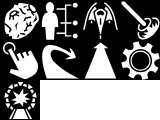
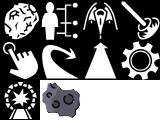
starting on better asteroid rendering

Changed region(s): [[0.25, 0.675, 0.5, 1.0]]

diff --git a/game.html b/game.html
@@ -41,10 +41,10 @@ const Constants = {
         ORBIT: 5,
         APPROACH: 6,
         SETTINGS: 7,
-        WARP: 8
+        WARP: 8,
+        ASTEROID: 9
     }
 };
-
 
 function Node() {
     // FIELDS 
@@ -70,7 +70,6 @@ function Player() {
 
     this.name = 'Bob';
     this.credits = 0;
-    this.ore = 0;
 }
 
 function AsteroidField() {
@@ -119,7 +118,8 @@ function Asteroid() {
     // PUBLIC METHODS
 
     // introduce weights so some are rarer than others
-    const TYPES = [ 'Iron', 'Ice', 'Silicon', 'Gold'];
+    const TYPES = [ 'Iron', 'Ice', 'Silicon', 'Gold', 'Platinum', 'Titanium', 
+                    'Uranium', 'Cobalt', 'Mithril', 'Adamantium'];
 
     this.mine = () => {
         if (Math.random() < 0.5) { // 1 ore
@@ -141,24 +141,30 @@ function Asteroid() {
 
 
     this.draw = () => {
-        ctx.save();
-        ctx.setLineDash([]);
-        ctx.lineWidth = 1;
-        ctx.fillStyle = 'rgba(55, 55, 55, 1)';
-        ctx.strokeStyle = 'rgba(85, 85, 85, 1)';
-        ctx.beginPath();
-        ctx.arc(this.pos.x, this.pos.y, this.size, 0, Math.PI * 2);
-        ctx.fill();
-        ctx.stroke();
-        ctx.restore();
-
-        // DEBUGGING! draw the index of the asteroid in the asteroid field
-        ctx.save();
-        ctx.fillStyle = 'white';
-        ctx.font = '22px Arial';
+        const ui = node.children.find(c => c instanceof UI);
         const asteroids = node.children.find(c => c instanceof AsteroidField).asteroids;
-        ctx.fillText(asteroids.indexOf(this), this.pos.x, this.pos.y);
-        ctx.restore();
+        const center = { x: this.pos.x - this.size/2, y: this.pos.y - this.size/2 };
+        ui.drawIcon(Constants.SPRITE.ASTEROID, center, false, asteroids.indexOf(this), false, 2);
+
+
+        // ctx.save();
+        // ctx.setLineDash([]);
+        // ctx.lineWidth = 1;
+        // ctx.fillStyle = 'rgba(55, 55, 55, 1)';
+        // ctx.strokeStyle = 'rgba(85, 85, 85, 1)';
+        // ctx.beginPath();
+        // ctx.arc(this.pos.x, this.pos.y, this.size, 0, Math.PI * 2);
+        // ctx.fill();
+        // ctx.stroke();
+        // ctx.restore();
+
+        // // DEBUGGING! draw the index of the asteroid in the asteroid field
+        // ctx.save();
+        // ctx.fillStyle = 'white';
+        // ctx.font = '22px Arial';
+        // const asteroids = node.children.find(c => c instanceof AsteroidField).asteroids;
+        // ctx.fillText(asteroids.indexOf(this), this.pos.x, this.pos.y);
+        // ctx.restore();
 
         if (this.selected) {
             // draw selection border
@@ -397,14 +403,36 @@ function UI() {
         }
         drawFps();
         drawButtons();
-    }
+    };
+
+    this.drawIcon = (spriteIndex, pos, selected = false, button = undefined, outline = true, scale = 1) => {
+        if (!sprites[spriteIndex]) return;
+        if (selected) ctx.globalAlpha = 0.5;
+        ctx.drawImage(sprites[spriteIndex], pos.x, pos.y, 40*scale, 40*scale);
+        if (outline) {
+            ctx.strokeStyle = 'rgba(150, 150, 150, 0.5)';
+            ctx.strokeRect(pos.x, pos.y, 40, 40);
+        }
+        if (button) {
+            ctx.font = '11px Arial';
+            ctx.fillStyle = 'black';
+            ctx.fillText(button, pos.x+1, pos.y+5);
+            ctx.fillText(button, pos.x-1, pos.y+4);
+            ctx.fillStyle = 'white';
+            ctx.fillText(button, pos.x, pos.y+4);
+        }
+        ctx.globalAlpha = 1;
+    };
 
     // PRIVATE METHODS
     const sprites = [];
-    // Load the sprite sheet
+
     const spriteSheet = new Image();
+    // icons from:
+    // https://game-icons.net/
+    // https://icons8.com
     spriteSheet.src = 'icons.png';
-    // Once the image loads, split it into sprites
+
     spriteSheet.onload = () => {
         const spriteWidth = 40;
         const spriteHeight = 40;
@@ -416,12 +444,12 @@ function UI() {
         const tempCtx = tempCanvas.getContext('2d');
         tempCanvas.width = spriteWidth;
         tempCanvas.height = spriteHeight;
-        
+
         // Extract each sprite
         for (let row = 0; row < rows; row++) {
             for (let col = 0; col < columns; col++) {
                 tempCtx.clearRect(0, 0, spriteWidth, spriteHeight);
-                
+
                 // Draw the portion of the sprite sheet we want
                 tempCtx.drawImage(
                     spriteSheet,
@@ -467,23 +495,6 @@ function UI() {
         });
     };
 
-    const drawIcon = (spriteIndex, pos, selected = false, button = undefined) => {
-        if (!sprites[spriteIndex]) return;
-        if (selected) ctx.globalAlpha = 0.5;
-        ctx.drawImage(sprites[spriteIndex], pos.x, pos.y);
-        ctx.strokeStyle = 'rgba(150, 150, 150, 0.5)';
-        ctx.strokeRect(pos.x, pos.y, 40, 40);
-        if (button) {
-            ctx.font = '11px Arial';
-            ctx.fillStyle = 'black';
-            ctx.fillText(button, pos.x+5, pos.y+4);
-            ctx.fillStyle = 'white';
-            ctx.fillText(button, pos.x+2, pos.y+1);
-        }
-        ctx.globalAlpha = 1;
-    };
-
-    // TODO: fix the FPS counter...
     const drawFps = () => {
         drawPanel({ x: 0, y: 0 }, 100, 50);
         drawTexts(['fps: ' + this.fpsDisplay], { x: 10, y: 30 });
@@ -510,149 +521,89 @@ function UI() {
     }
 
     const drawButtons = () => {
-        // lower middle panel
-        // settings cogwheel sprite - simple settings screen and EXIT NOW button.
-        // pilot sprite - showing who you are and credits. number of times dead. some other stats?
-        // SHIP sprite - meaning simple inventory and fitted ship modules.
-        // FIX FPS!
-
         const spaceship = node.children.find(c => c instanceof Spaceship);
         const shieldPercentage = spaceship.shield / spaceship.maxShield * 100;
         const hullPercentage = spaceship.hull / spaceship.maxHull * 100;
         drawHealthCircle(40, shieldPercentage, 'rgba(0, 150, 255, 0.8)');
         drawHealthCircle(30, hullPercentage, 'rgba(255, 150, 0, 0.8)');
-        drawTexts(['shield', ' '+shieldPercentage],
-                    { x: canvas.width / 2 - 90, y: canvas.height - 70 }, 15);
-        drawTexts(['hull', ' '+hullPercentage], 
-                    { x: canvas.width / 2 + 60, y: canvas.height - 70 }, 15);
+        drawTexts(['shield', `${shieldPercentage}%`],
+                    { x: canvas.width / 2 - 90, y: canvas.height - 80 }, 15);
+        drawTexts(['hull', `${hullPercentage}%`], 
+                    { x: canvas.width / 2 + 60, y: canvas.height - 80 }, 15);
         const off = 45;
         let i = 3;
         const i2pos = (i) => { return { x: canvas.width / 2 - off*i, y: canvas.height - 45}; };
-        drawIcon(Constants.SPRITE.FLY_TO, i2pos(i++), this.qDown, 'Q');
-        drawIcon(Constants.SPRITE.APPROACH, i2pos(i++), this.aDown, 'A');
-        drawIcon(Constants.SPRITE.ORBIT, i2pos(i++), this.sDown, 'S');
-        drawIcon(Constants.SPRITE.SHIP, i2pos(i++), this.wDown, 'W');
-        drawIcon(Constants.SPRITE.PILOT, i2pos(i++), this.eDown, 'E');
-        drawIcon(Constants.SPRITE.SETTINGS, i2pos(i++), this.dDown, 'D');
+        this.drawIcon(Constants.SPRITE.FLY_TO, i2pos(i++), this.qDown, 'Q');
+        this.drawIcon(Constants.SPRITE.APPROACH, i2pos(i++), this.aDown, 'A');
+        this.drawIcon(Constants.SPRITE.ORBIT, i2pos(i++), this.sDown, 'S');
+        this.drawIcon(Constants.SPRITE.SHIP, i2pos(i++), this.wDown, 'W');
+        this.drawIcon(Constants.SPRITE.PILOT, i2pos(i++), this.eDown, 'E');
+        this.drawIcon(Constants.SPRITE.SETTINGS, i2pos(i++), this.dDown, 'D');
         i = -4;
-        drawIcon(Constants.SPRITE.FIRE, i2pos(i++), this.k3down, '3');
-        drawIcon(Constants.SPRITE.MINE, i2pos(i++), this.k2down, '2');
-        drawIcon(Constants.SPRITE.WARP, i2pos(i++), this.k1down, '1');
+        this.drawIcon(Constants.SPRITE.FIRE, i2pos(i++), this.k3down, '3');
+        this.drawIcon(Constants.SPRITE.MINE, i2pos(i++), this.k2down, '2');
+        this.drawIcon(Constants.SPRITE.WARP, i2pos(i++), this.k1down, '1');
         // DEBUGGING - draw all the sprites
         // sprites.forEach((sprite, i) => {
         //     ctx.drawImage(sprite, 40*i, canvas.height / 2);
         // });
     };
 
+    const dialogWidth = 300;
+    const dialogHeight = 400;
+    const dialogX = canvas.width / 2 - dialogWidth / 2;
+    const dialogY = canvas.height / 2 - dialogHeight / 2;
+
     function drawPilotDialog() {
+        const pilot = node.children.find(c => c instanceof Player);
         ctx.save();
-        const x = canvas.width / 2 - 150;
-        const y = canvas.height / 2 - 200;
-        const width = 300;
-        const height = 400;
-        
-        ctx.fillStyle = 'rgba(20, 20, 20, 0.9)';
-        ctx.strokeStyle = 'rgba(100, 100, 255, 0.8)';
-        ctx.lineWidth = 2;
-        roundedRect(x, y, width, height, 10);
-        
-        ctx.fillStyle = 'white';
-        ctx.font = 'bold 20px Arial';
-        ctx.fillText('Pilot', x + 20, y + 30);
-        ctx.beginPath();
-        ctx.strokeStyle = 'rgba(100, 100, 255, 0.5)';
-        ctx.moveTo(x + 10, y + 45);
-        ctx.lineTo(x + width - 10, y + 45);
-        ctx.stroke();
-        ctx.font = '14px Arial';
-        let yOffset = y + 90;
+        roundedRect(dialogX, dialogY, dialogWidth, dialogHeight, 10);
+        let yOffset = dialogY;
+        yOffset = drawSectionHeader('Pilot', dialogWidth, yOffset, dialogX);
         ctx.fillStyle = 'rgba(150, 150, 255, 0.8)';
-        ctx.fillText('This pilot is doing well...', x + 30, yOffset);
+        ctx.fillText(`name: ${pilot.name}`, dialogX + 30, yOffset += 20);
+        ctx.fillText(`credits: ${pilot.credits}`, dialogX + 30, yOffset += 20);
         ctx.restore();
     }
 
     function drawSettingsDialog() {
         ctx.save();
-        const x = canvas.width / 2 - 150;
-        const y = canvas.height / 2 - 200;
-        const width = 300;
-        const height = 400;
-        
-        ctx.fillStyle = 'rgba(20, 20, 20, 0.9)';
-        ctx.strokeStyle = 'rgba(100, 100, 255, 0.8)';
-        ctx.lineWidth = 2;
-        roundedRect(x, y, width, height, 10);
-        
-        ctx.fillStyle = 'white';
-        ctx.font = 'bold 20px Arial';
-        ctx.fillText('Settings', x + 20, y + 30);
-        ctx.beginPath();
-        ctx.strokeStyle = 'rgba(100, 100, 255, 0.5)';
-        ctx.moveTo(x + 10, y + 45);
-        ctx.lineTo(x + width - 10, y + 45);
-        ctx.stroke();
-        ctx.font = '14px Arial';
-        let yOffset = y + 90;
+        roundedRect(dialogX, dialogY, dialogWidth, dialogHeight, 10);
+        let yOffset = dialogY;
+        yOffset = drawSectionHeader('Settings', dialogWidth, yOffset, dialogX);
+        yOffset += 20;
         ctx.fillStyle = 'rgba(150, 150, 255, 0.8)';
-        ctx.fillText('Exit Now', x + 30, yOffset);
+        ctx.fillText('Exit Now', dialogX + 30, yOffset);
         ctx.restore();
     }
 
     function drawShipDialog() {
         ctx.save();
         const ship = node.children.find(c => c instanceof Spaceship);
-        const x = canvas.width / 2 - 150;
-        const y = canvas.height / 2 - 200;
-        const width = 300;
-        const height = 400;
+        roundedRect(dialogX, dialogY, dialogWidth, dialogHeight, 10);
+        let yOffset = dialogY;
+        yOffset = drawSectionHeader('Equipped Modules', dialogWidth, yOffset, dialogX);
+        yOffset = drawSectionItems(ship.modules, yOffset, dialogX);
+        yOffset = drawSectionHeader('Inventory', dialogWidth, yOffset, dialogX);
+        drawSectionItems(ship.inventory, yOffset, dialogX);
+        ctx.restore();
+    }
 
-        // Draw dialog background
-        ctx.fillStyle = 'rgba(20, 20, 20, 0.9)';
-        ctx.strokeStyle = 'rgba(100, 100, 255, 0.8)';
-        ctx.lineWidth = 2;
-        roundedRect(x, y, width, height, 10);
-        
-        // Equipped Modules Section
-        ctx.fillStyle = 'white';
-        ctx.font = 'bold 20px Arial';
-        ctx.fillText('Equipped Modules', x + 20, y + 30);
-        ctx.beginPath();
-        ctx.strokeStyle = 'rgba(100, 100, 255, 0.5)';
-        ctx.moveTo(x + 10, y + 45);
-        ctx.lineTo(x + width - 10, y + 45);
-        ctx.stroke();
-        ctx.font = '14px Arial';
-        let yOffset = y + 90;
-        ship.modules.forEach((module, index) => {
-            ctx.fillStyle = 'rgba(150, 150, 255, 0.8)';
-            ctx.fillText(`${module.name}`, x + 30, yOffset);
-            ctx.fillStyle = 'rgba(200, 200, 200, 0.8)';
-            const amount = module.amount % 1 > 1 ? module.amount.toFixed(2) : module.amount;
-            ctx.fillText(`${amount} ${module.unit}`, x + 150, yOffset);
-            yOffset += 20;
-        });
-        
-        // Inventory Section
+    function drawSectionHeader(text, width, yOffset, x) {
         yOffset += 20;
         ctx.fillStyle = 'white';
         ctx.font = 'bold 20px Arial';
-        ctx.fillText('Inventory', x + 20, yOffset += 20);
+        ctx.fillText(text, x + 20, yOffset += 20);
         ctx.beginPath();
         ctx.strokeStyle = 'rgba(100, 100, 255, 0.5)';
         ctx.moveTo(x + 10, yOffset += 20);
         ctx.lineTo(x + width - 10, yOffset);
         ctx.stroke();
         ctx.font = '14px Arial';
-        drawSectionItems(ship.inventory, yOffset+20, x);
-        ctx.restore();
-    }
-
-    function drawSectionHeader(text, yOffset, x) {
-
+        return yOffset + 20;
     }
 
     function drawSectionItems(modules, yOffset, x) {
-        console.log('drawSectionItems: ' + modules.length);
         modules.forEach((module, index) => {
             ctx.fillStyle = 'rgba(150, 150, 255, 0.8)';
             ctx.fillText(`${module.name}`, x + 30, yOffset);
@@ -665,6 +616,9 @@ function UI() {
     }
 
     function roundedRect(x, y, width, height, radius) {
+        ctx.fillStyle = 'rgba(20, 20, 20, 0.9)';
+        ctx.strokeStyle = 'rgba(100, 100, 255, 0.8)';
+        ctx.lineWidth = 2;
         ctx.beginPath();
         ctx.moveTo(x + radius, y);
         ctx.lineTo(x + width - radius, y);
